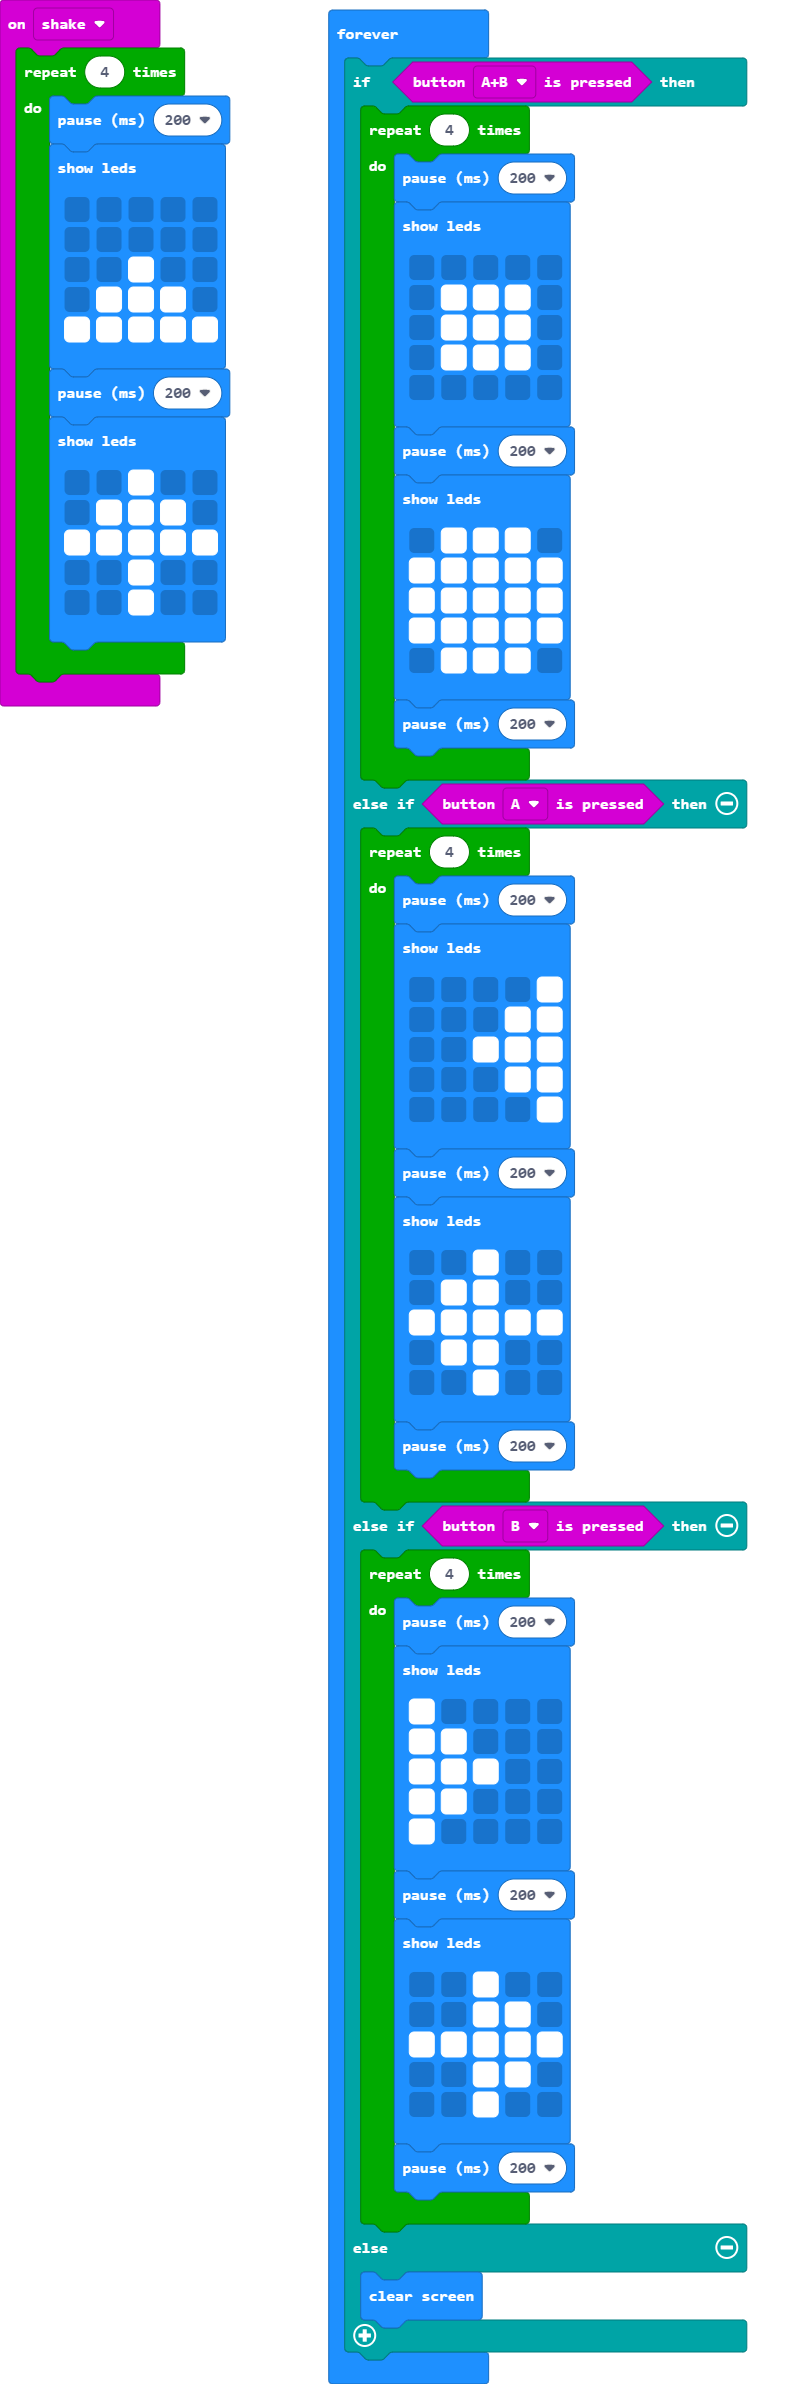
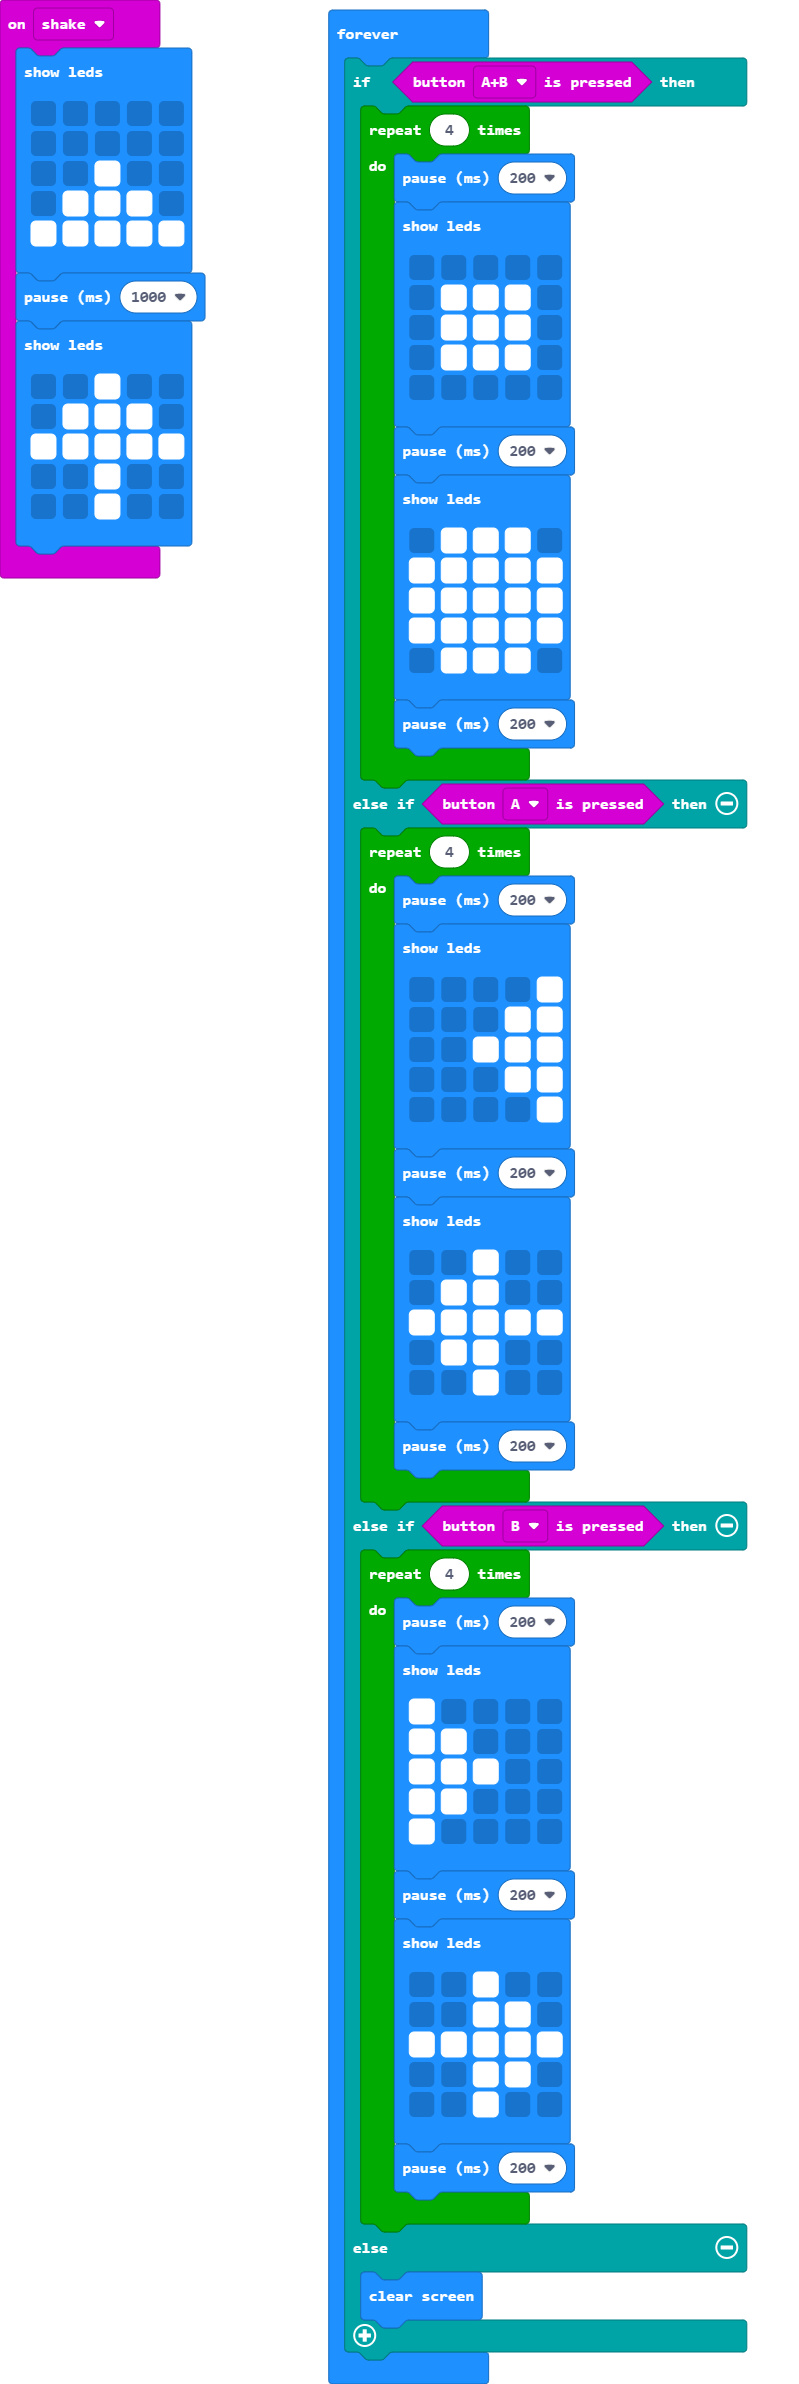
minimal changes

Changed region(s): [[0.0, 0.0, 0.3004, 0.3104]]

diff --git a/main.ts b/main.ts
@@ -1,22 +1,19 @@
 input.onGesture(Gesture.Shake, function () {
-    for (let index = 0; index < 4; index++) {
-        basic.pause(200)
-        basic.showLeds(`
-            . . . . .
-            . . . . .
-            . . # . .
-            . # # # .
-            # # # # #
-            `)
-        basic.pause(200)
-        basic.showLeds(`
-            . . # . .
-            . # # # .
-            # # # # #
-            . . # . .
-            . . # . .
-            `)
-    }
+    basic.showLeds(`
+        . . . . .
+        . . . . .
+        . . # . .
+        . # # # .
+        # # # # #
+        `)
+    basic.pause(1000)
+    basic.showLeds(`
+        . . # . .
+        . # # # .
+        # # # # #
+        . . # . .
+        . . # . .
+        `)
 })
 basic.forever(function () {
     if (input.buttonIsPressed(Button.AB)) {
